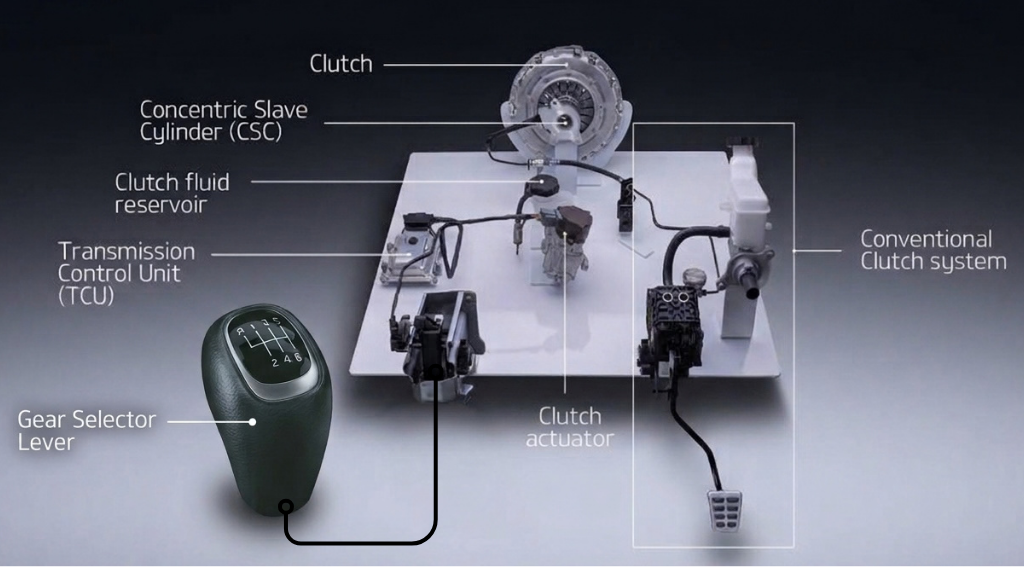
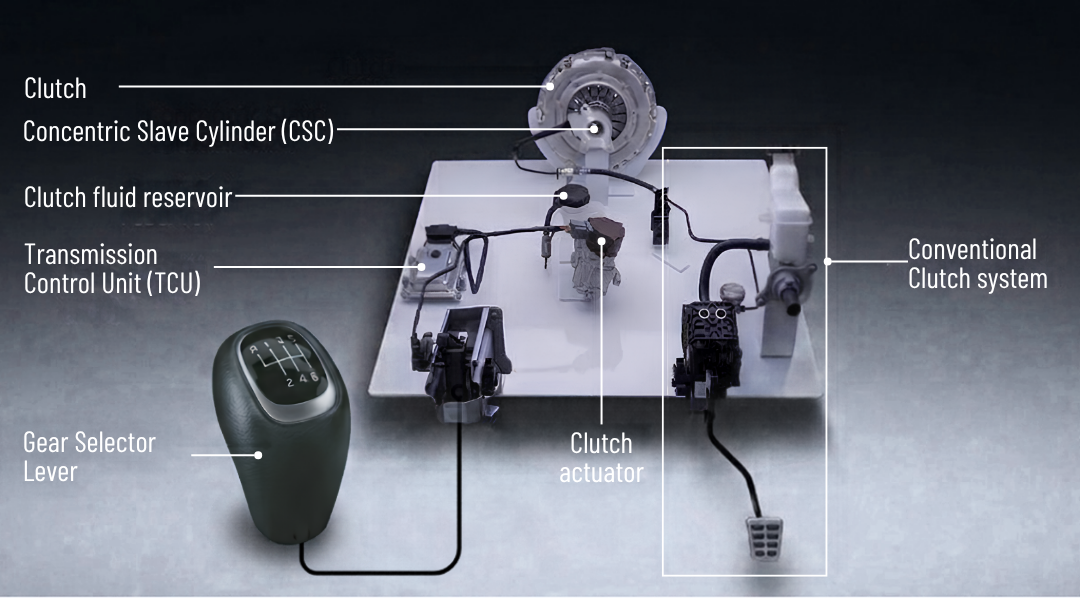
update image and wording

diff --git a/index.html b/index.html
@@ -288,7 +288,7 @@ main{flex:1}
         <div>
           <h2 class="post__title">A manual with no clutch pedal</h2>
           <p class="post__dek">Clutchless manuals keep the H-pattern lever and automate only the clutch. The idea has been tried and dropped for seventy years, and Hyundai and Kia have now revived it as the iMT.</p>
-          <span class="post__cta">WHY DID FAIL SO MANY TIMES? →</span>
+          <span class="post__cta">WHY DID IT FAIL SO MANY TIMES? →</span>
         </div>
         <div class="post__art" id="art06">
           <img src="clutchless-manual/assets/fig-00-hero.jpg" alt="A clutchless manual gear lever with no clutch pedal beneath it.">
